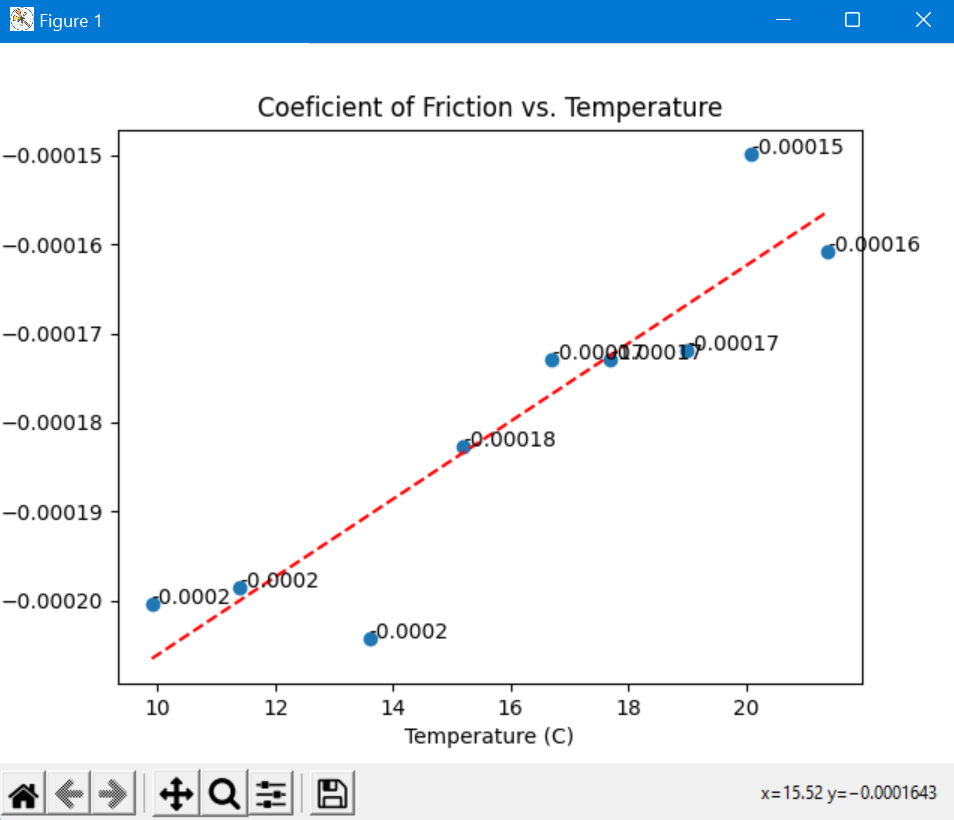
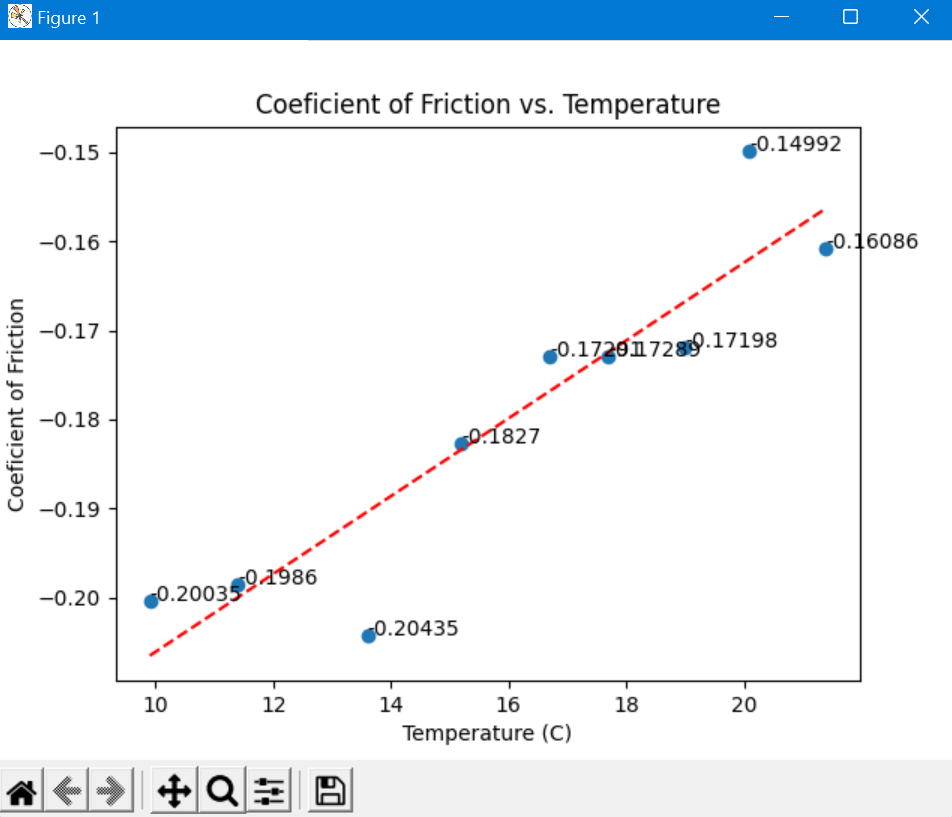
fixed coeficient of friction

diff --git a/Graphs.py b/Graphs.py
@@ -95,7 +95,7 @@ if __name__ == '__main__':
 
     # Calculate coeficient of friction for each average force value
     gravity = 9.81
-    mass_bar = 490.0
+    mass_bar = .490
     coef_friction_list = []
     for i in range(len(avg_force_list)):
         coef_friction = avg_force_list[i] / (mass_bar * gravity)
